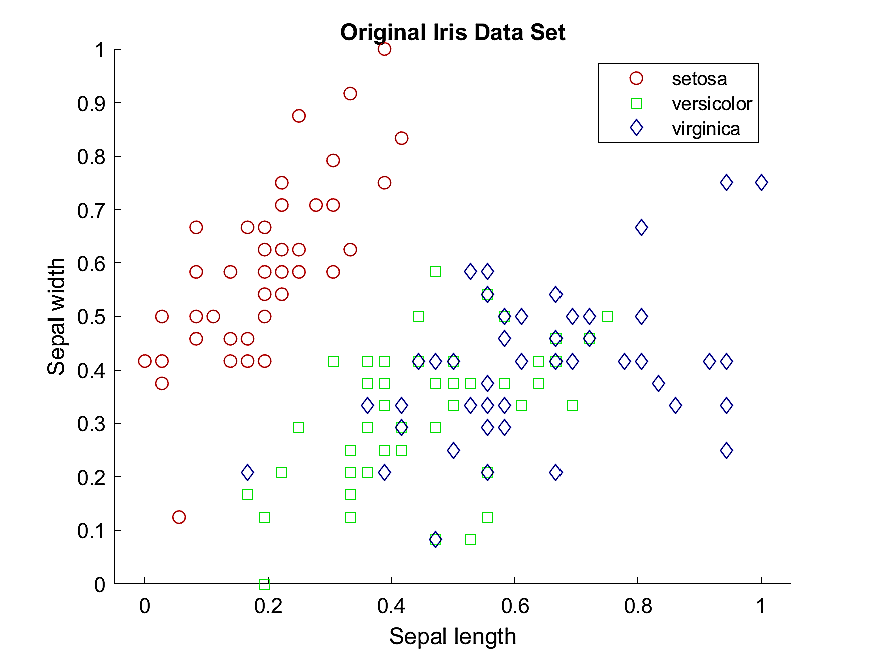
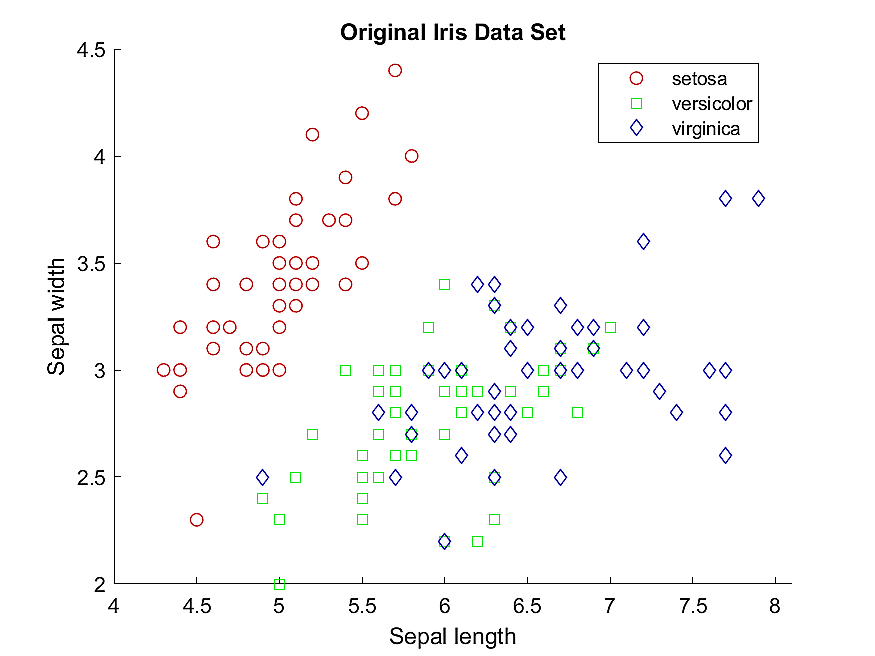
FJLT 1 method results done!

diff --git a/Code/brute_force.m b/Code/brute_force.m
@@ -1,10 +1,10 @@
-%  n=50;
+  n=5000;
 %  testFJLT2(n,32,[2,3,4,5,6,8],[4,16,16,16,32,32]);
 %  testFJLT2(n,64,[2,3,4,5,6,7,8,10],[4,16,16,16,32,32,64,64]);
-%  testFJLT2(n,128,[2,3,4,5,6,7,8,10,15],[4,16,16,16,32,32,64,64,64]);
+  testFJLT2(n,64,[2,3,4,7,8,10,11],[4,16,16,32,64,64,64]);
 %  testFJLT2(n,256,[4,8,9,10,11,15,17],[16,64,64,128,128,256,256]);
 %  testFJLT2(n,512,[10,14,15,16,18,20,22,23],[128,128,256,256,256,512,512,512]);
 % testFJLT2(n,1024,[16,18,20,22,23,25,28,30,32,34],[256,256,512,512,512,512,512,1024,1024,1024]);
 
-testFJLT1(100,64);
+% testFJLT1(5000,32);
 

diff --git a/Code/Untitled.m b/Code/Untitled.m
@@ -12,7 +12,7 @@ dir = 'results/knn/';
 
 figure()
 hold on
-gscatter(X(1,:),X(2,:),species,'rgb','osd',[6,6,6]);
+gscatter(meas(:,1),meas(:,2),species,'rgb','osd',[6,6,6]);
 title('Original Iris Data Set')
 xlabel('Sepal length')
 ylabel('Sepal width')
@@ -21,7 +21,7 @@ saveas(gca, strcat(dir, 'original_fisheriris_1.png'));
 
 figure()
 hold on
-gscatter(X(3,:),X(4,:),species,'rgb','osd',[6,6,6]);
+gscatter(meas(:,3),meas(:,4),species,'rgb','osd',[6,6,6]);
 title('Original Iris Data Set')
 xlabel('Petal length')
 ylabel('Petal width')

diff --git a/Code/testFJLT2.m b/Code/testFJLT2.m
@@ -1,7 +1,15 @@
 function testFJLT2(n,d,k,beta)
 %clear;
 %n = 50; d = 64; %beta and e 
-A = normc(rand(d,n));
+X = rand(d,n);
+A = zeros(d,n);
+
+for i=1:d
+    x_min = min(X(i,:));
+    x_max = max(X(i,:));
+    A(i,:) = (X(i,:) - x_min)/(x_max - x_min);
+end
+
 %k = [2,3,4,5,8,16];
 k_dim = length(k);
 %beta = [4,16,16,24];
